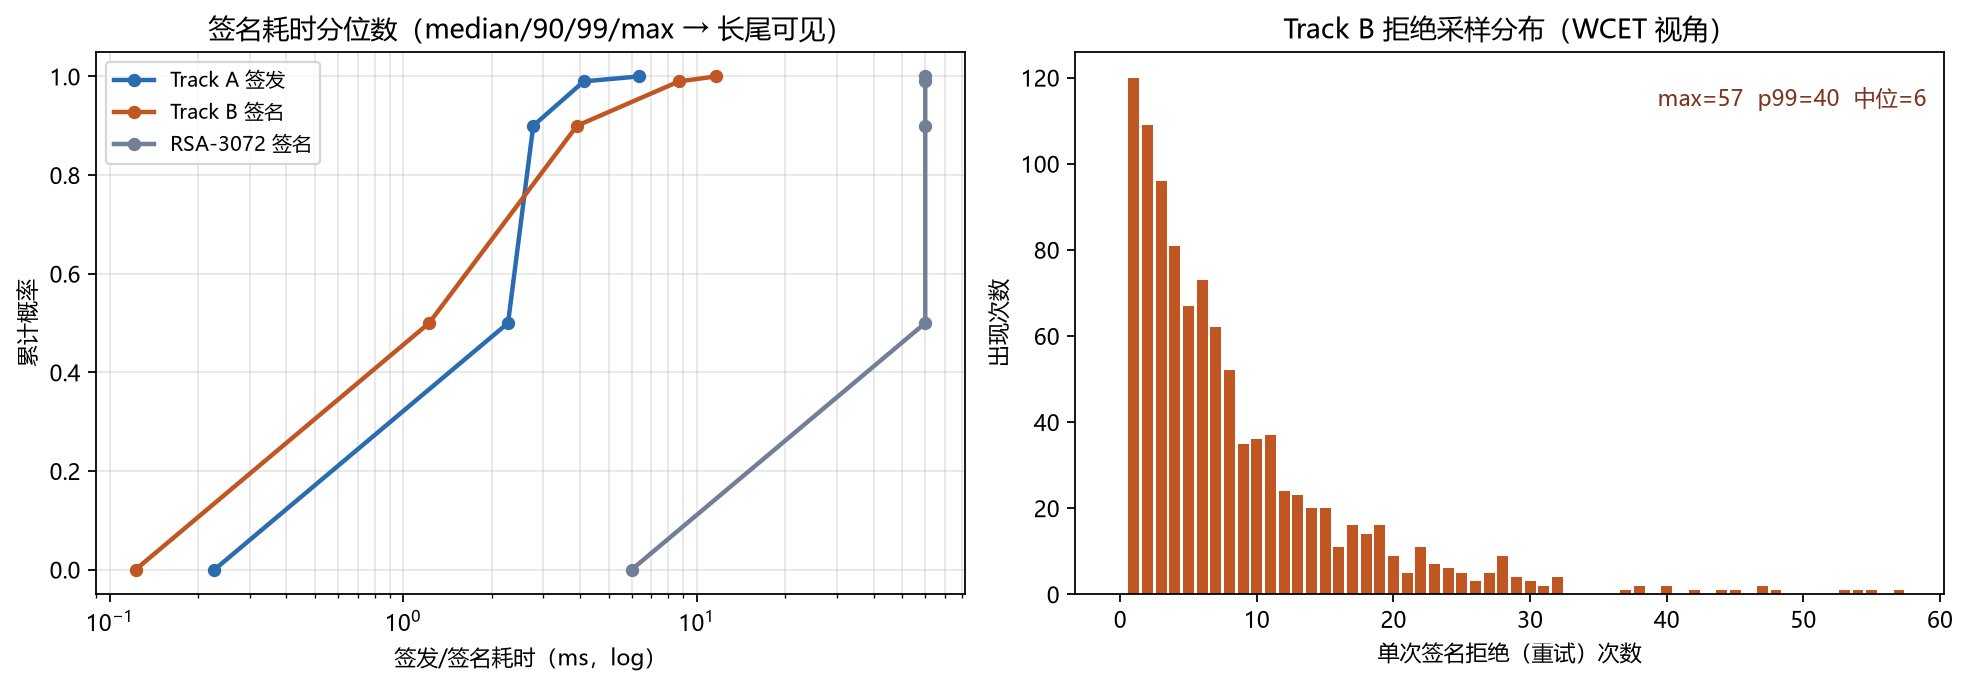
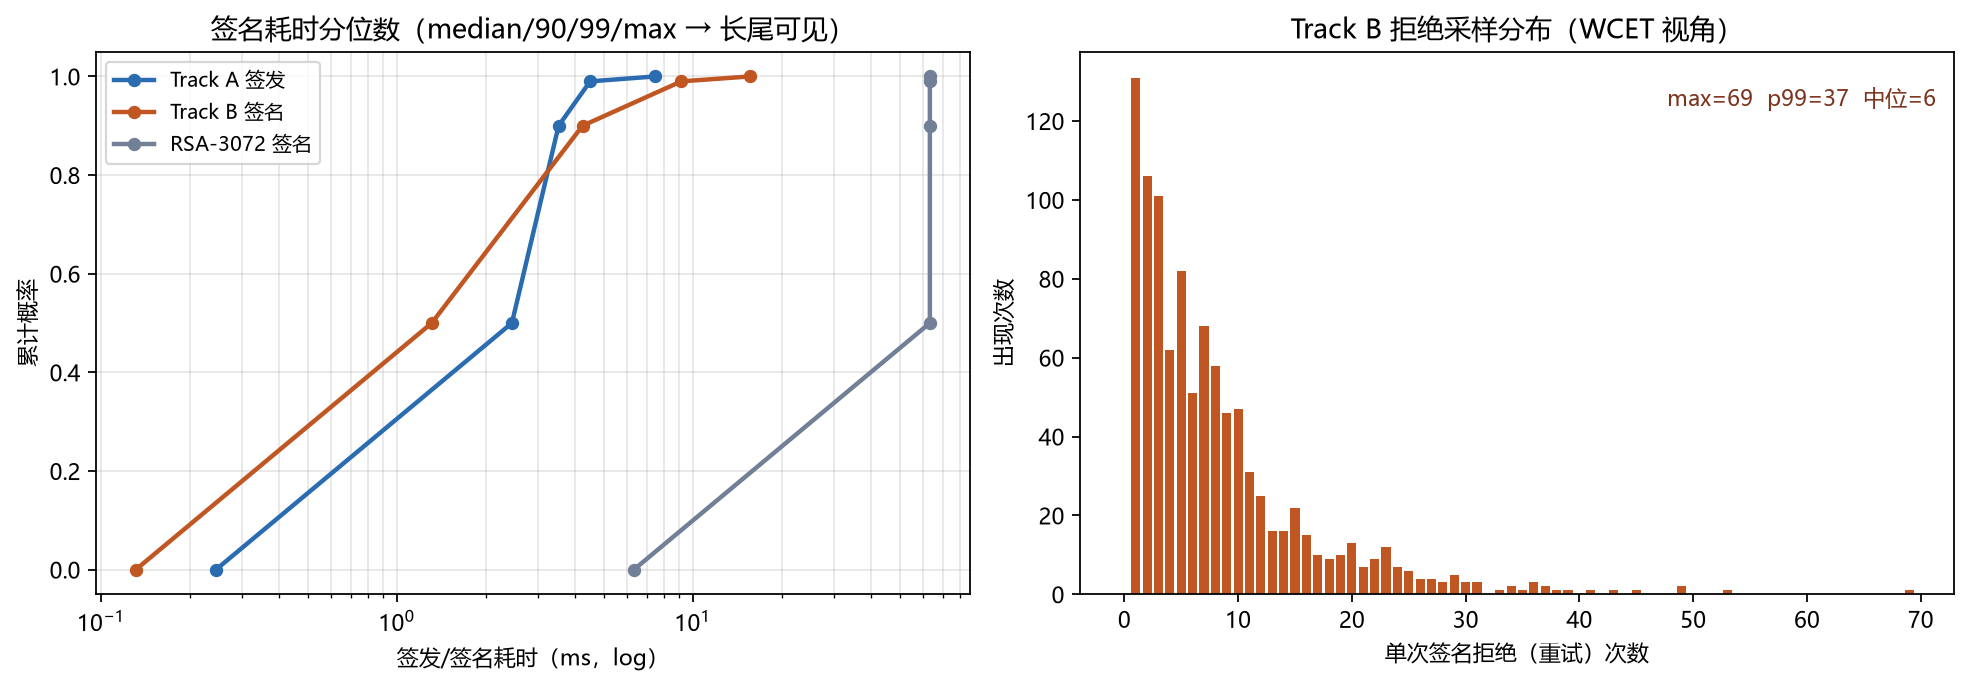
v2: 全流程复现验证后同步 README/REPORT 数字

diff --git a/README.md b/README.md
@@ -63,9 +63,9 @@ python tests/test_core.py        # v1 遗留单测
 ### E2 性能对照（同一机器；NIST 项为官方尺寸，非本机）
 | 方案 | pk / sk / 签名(字节) | 签发中位(ms) | p99(ms) | 验签中位(ms) |
 | --- | --- | --- | --- | --- |
-| Track A LWE 标签(对称) | – / 144 / 288 | 2.27 | 4.12 | 0.094 |
-| Track B 格签名(ringless) | 229376 / 65536 / 544 | 1.22 | 8.69 | 0.152 |
-| RSA-3072-PSS（纯 stdlib 实测） | 384 / 384 / 384 | 59.95 | 59.95 | 0.300 |
+| Track A LWE 标签(对称) | – / 144 / 288 | 2.45 | 4.50 | 0.100 |
+| Track B 格签名(ringless) | 229376 / 65536 / 544 | 1.31 | 9.14 | 0.155 |
+| RSA-3072-PSS（纯 stdlib 实测） | 384 / 384 / 384 | 63.19 | 63.19 | 0.307 |
 | ML-DSA-44 (FIPS 204 官方) | 1312 / 2560 / 2420 | 参考 | 参考 | 参考 |
 | FN-DSA-512 (FIPS 206 官方) | 897 / 1281 / 666 | 参考 | 参考 | 参考 |
 
@@ -78,8 +78,8 @@ python tests/test_core.py        # v1 遗留单测
 ### E4 区块链场景（1000 笔/块，负载 64 B/笔）
 | 方案 | 每笔记账字节 | 区块膨胀 | 验签 TPS(估) |
 | --- | --- | --- | --- |
-| Track A 标签 | 288 | 4.5× | ~1.1 万 |
-| Track B 签名 | 544 | 8.5× | ~6.6 千 |
+| Track A 标签 | 288 | 4.5× | ~1.0 万 |
+| Track B 签名 | 544 | 8.5× | ~6.4 千 |
 | RSA-3072-PSS | 384 | 6.0× | ~3.3 千 |
 | ML-DSA-44（官方尺寸+文献耗时） | 2420 | 37.8× | ~2.0 万 |
 | FN-DSA-512 | 666 | 10.4× | ~1.25 万 |

diff --git a/docs/REPORT_v2.md b/docs/REPORT_v2.md
@@ -19,10 +19,10 @@
 
 ## E2 · 性能对照
 方法学对齐 ePrint 2026/1333：固定消息集、≥600 次、报 median/p90/p99/max。
-- Track A：签发 med 2.27 ms / p99 4.12；验签 med 0.094 ms；凭证 288 B。
-- Track B：签发 med 1.22 ms / p99 8.69（拒绝采样长尾）；验签 med 0.152 ms；签名 544 B；
+- Track A：签发 med 2.45 ms / p99 4.50；验签 med 0.100 ms；凭证 288 B。
+- Track B：签发 med 1.31 ms / p99 9.14（拒绝采样长尾）；验签 med 0.155 ms；签名 544 B；
   拒绝次数 med 6 / p99 40 / max 57。
-- RSA-3072-PSS（纯标准库，本机）：签名 med 59.95 ms；验签 med 0.30 ms；签名 384 B。
+- RSA-3072-PSS（纯标准库，本机）：签名 med 63.19 ms；验签 med 0.31 ms；签名 384 B。
 - ML-DSA-44 / FN-DSA-512 / ECDSA：官方尺寸表（非本机实测）。
 机器信息记录于 eval_v2_e2.json["machine"]。
 
